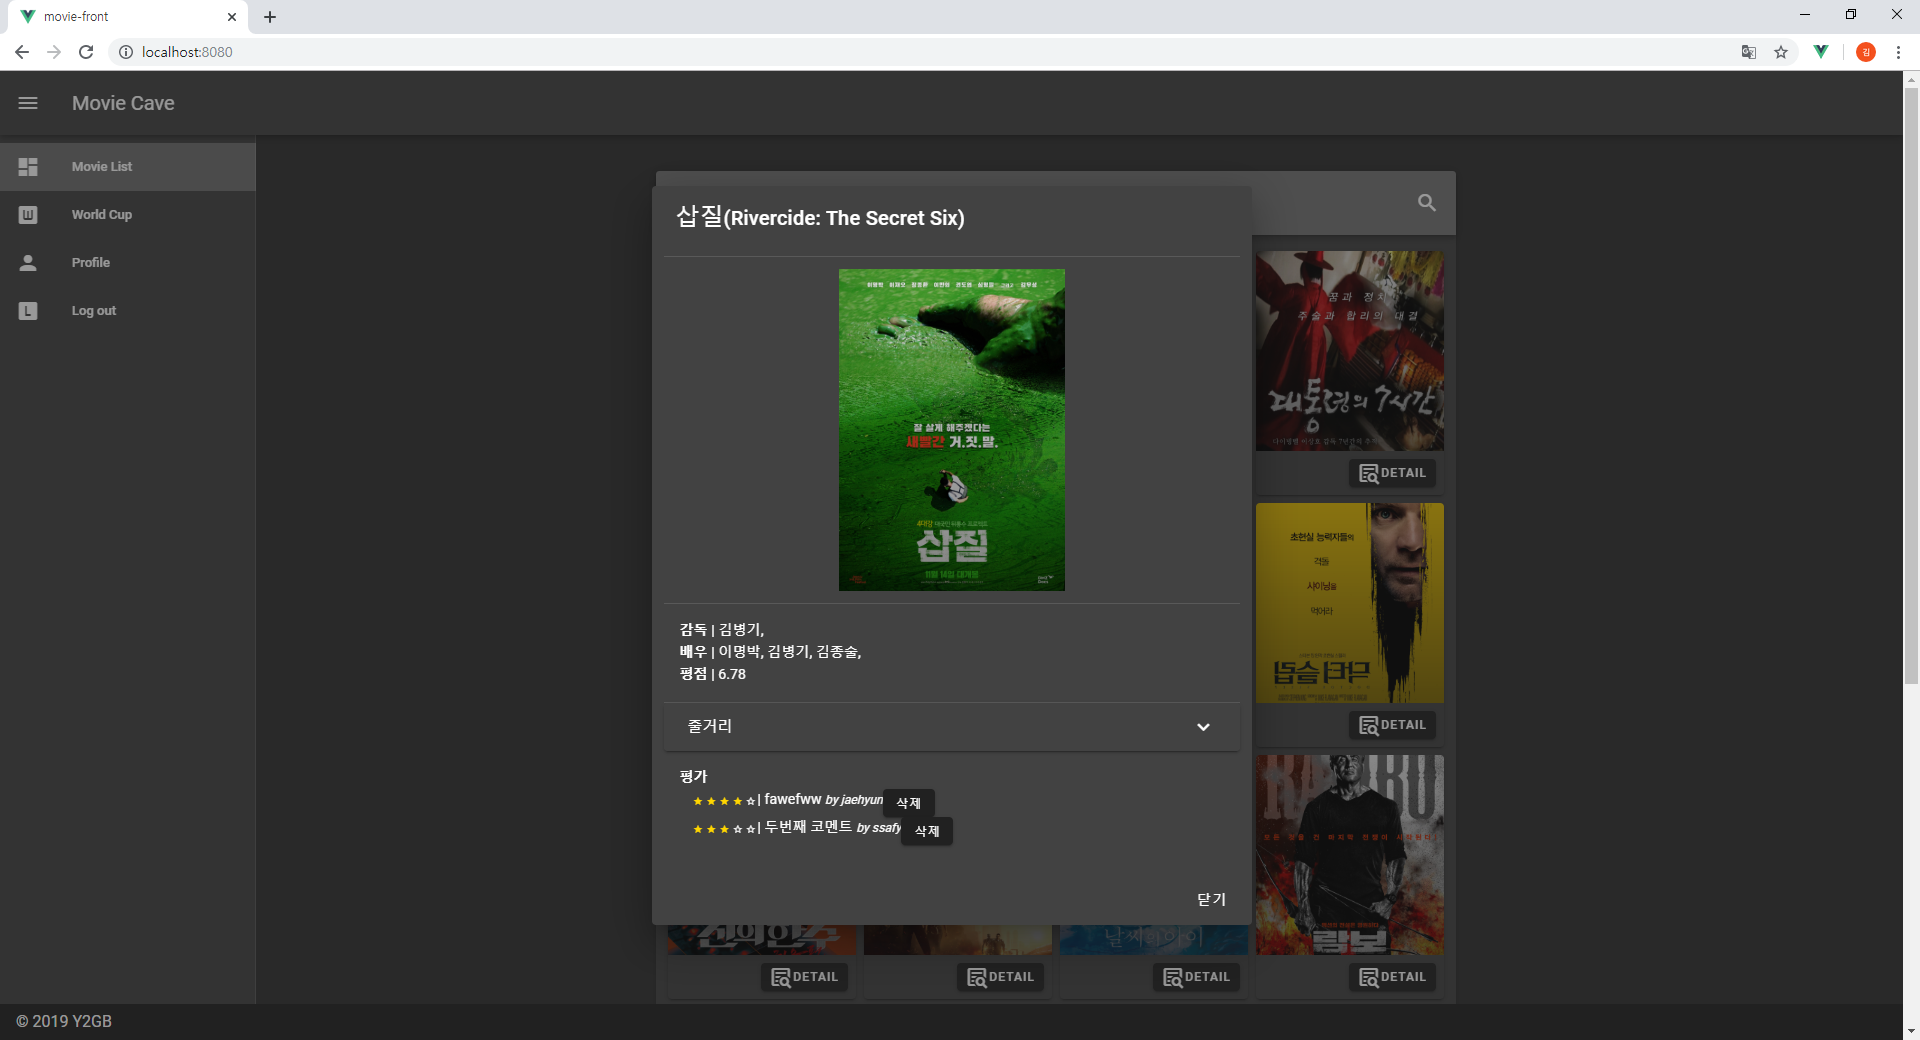
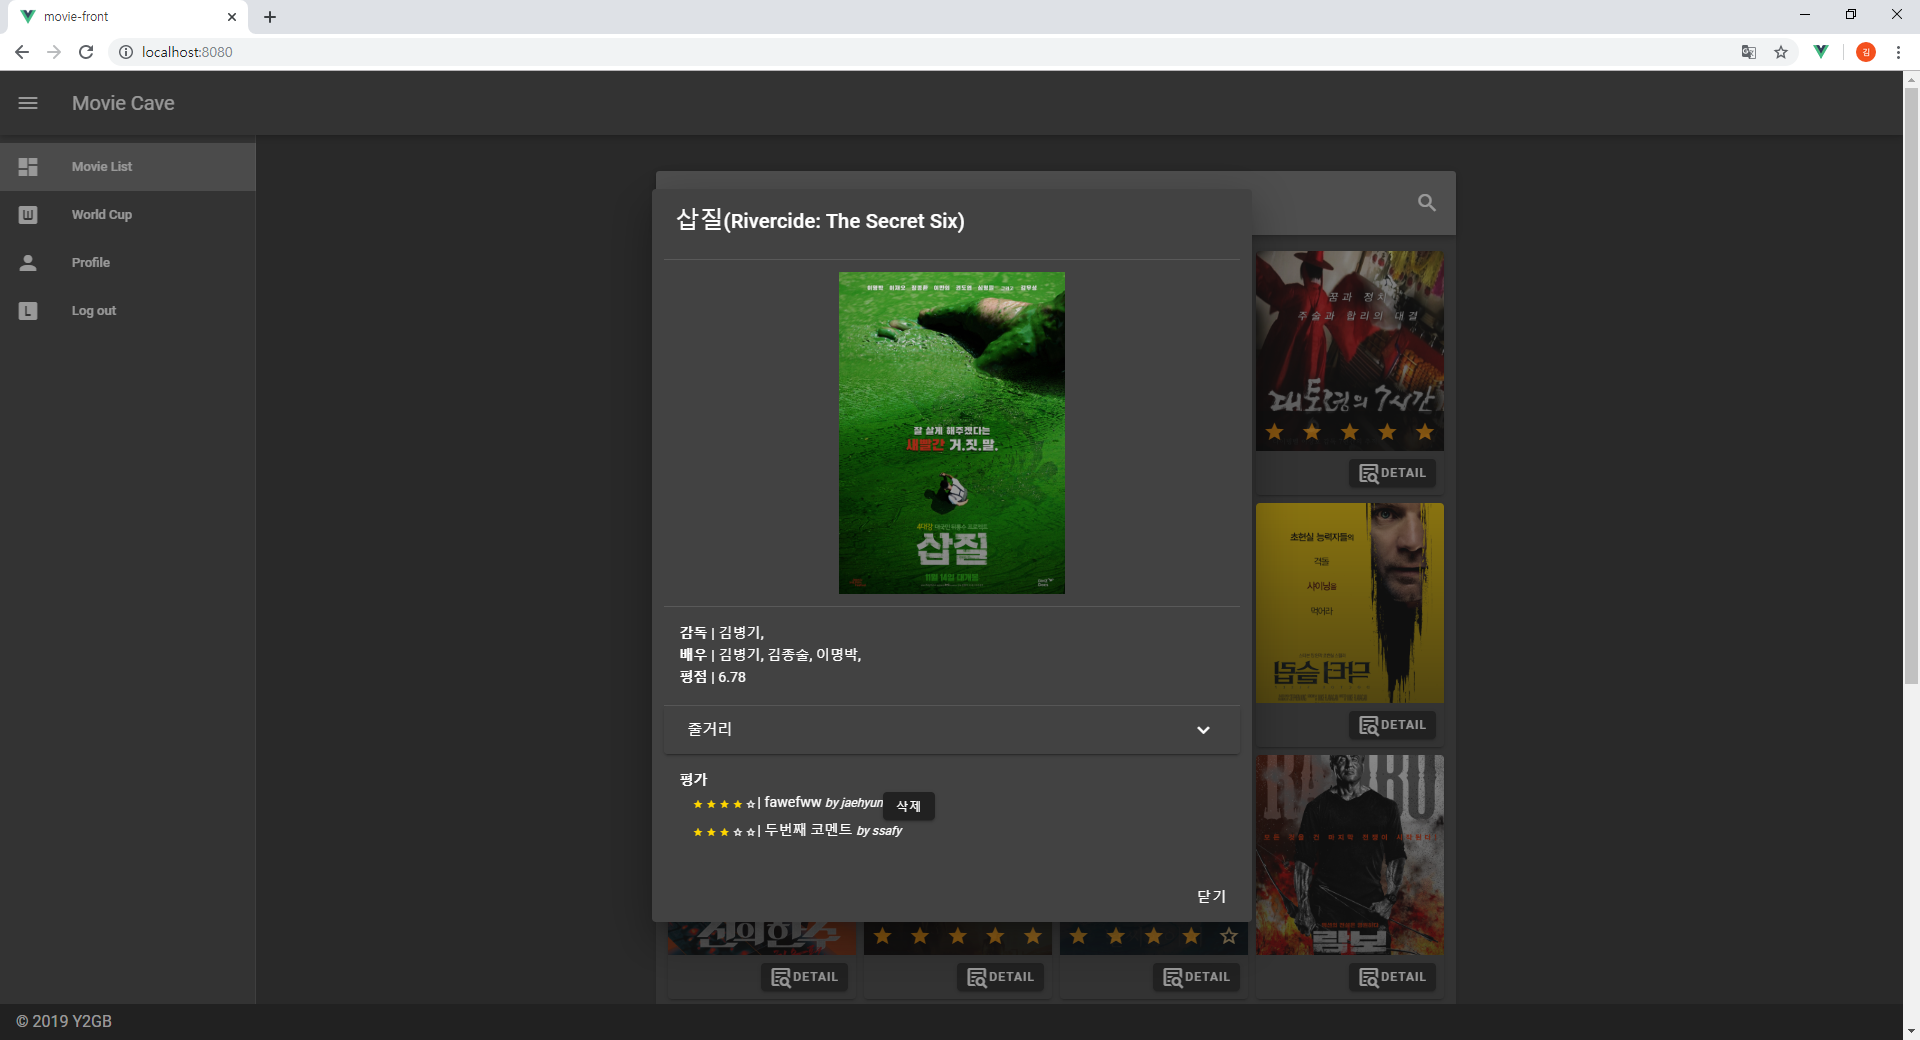
review_delete fixed

diff --git a/movie-front/src/components/MovieDetailModal.vue b/movie-front/src/components/MovieDetailModal.vue
@@ -56,9 +56,11 @@
                 | {{ review.content }}
                 <i style="font-size:12px;"> by {{ review.username }}</i>
               </div>
-              <v-btn small v-on:click="reviewDelete($event, review)">
-                삭제
-              </v-btn>
+              <div v-if="user_pk==review.user" >
+                <v-btn small v-on:click="reviewDelete($event, review)">
+                  삭제
+                </v-btn>
+              </div>
 
              </v-row>
           </li>
@@ -77,6 +79,7 @@
 
 <script>
 import axios from 'axios'
+import jwtDecode from 'jwt-decode'
 
 export default {
   data () {
@@ -84,6 +87,7 @@ export default {
       directors: [],
       actors: [],
       target_review: null,
+      user_pk: ''
     }
   },
 
@@ -101,6 +105,11 @@ export default {
   methods: {
     closeDialog() {
       this.$emit('closeDialogEvent', true)
+    },
+
+    getUserPk(){
+      const token = sessionStorage.getItem('jwt')
+      this.user_pk = jwtDecode(token).user_id
     },
 
     directorsNameCall() {
@@ -157,6 +166,7 @@ export default {
   mounted() {
     this.directorsNameCall()
     this.actorsNameCall()
+    this.getUserPk()
     // this.reviewsCall()
   },
 

diff --git a/movie-back/movies/views.py b/movie-back/movies/views.py
@@ -208,8 +208,10 @@ def review_create(request):
 @api_view(['GET'])
 def review_delete(request, review_pk):
     review = get_object_or_404(Review, pk=review_pk)
-    review.delete()
-    return Response(status=200)
+    if review.user == request.user:
+        review.delete()
+        return Response(status=200)
+    return Response(status=400)
 
 # .../review/movie/movie_pk/
 @api_view(['GET'])
